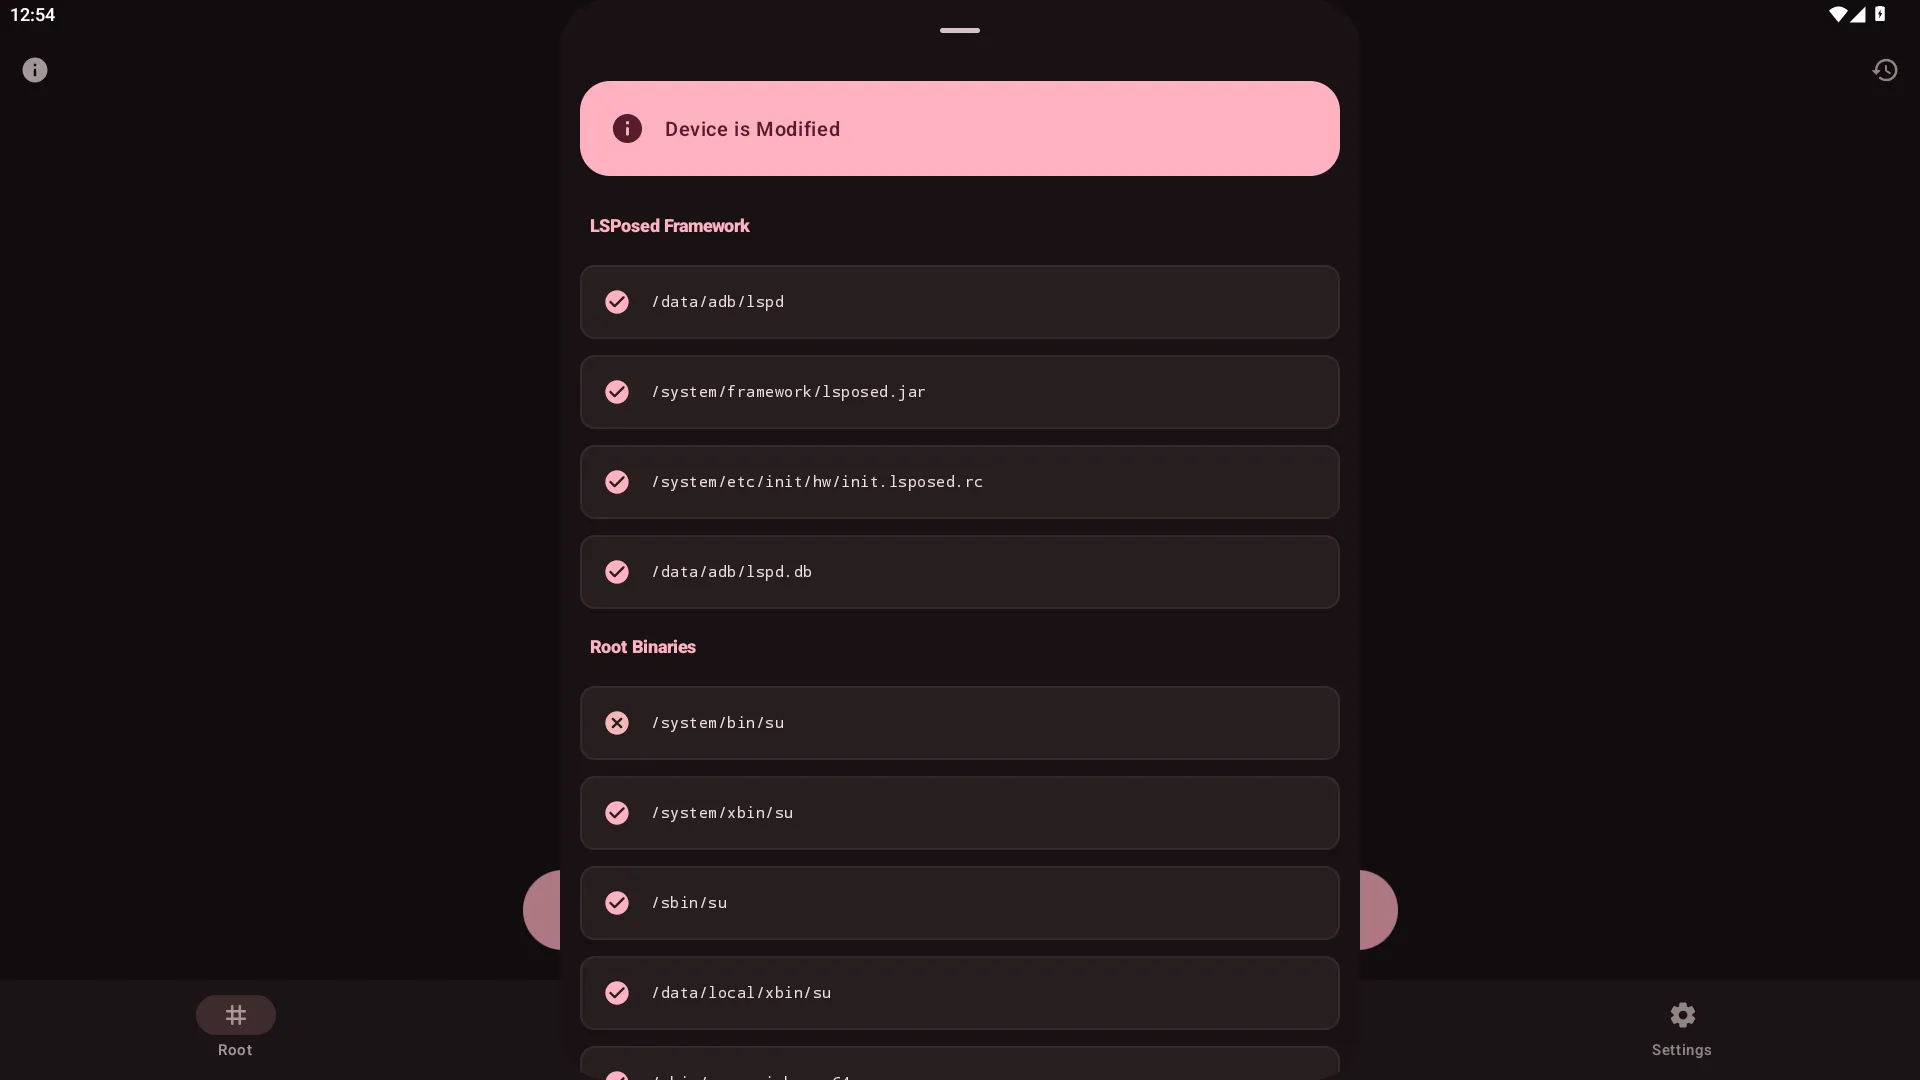
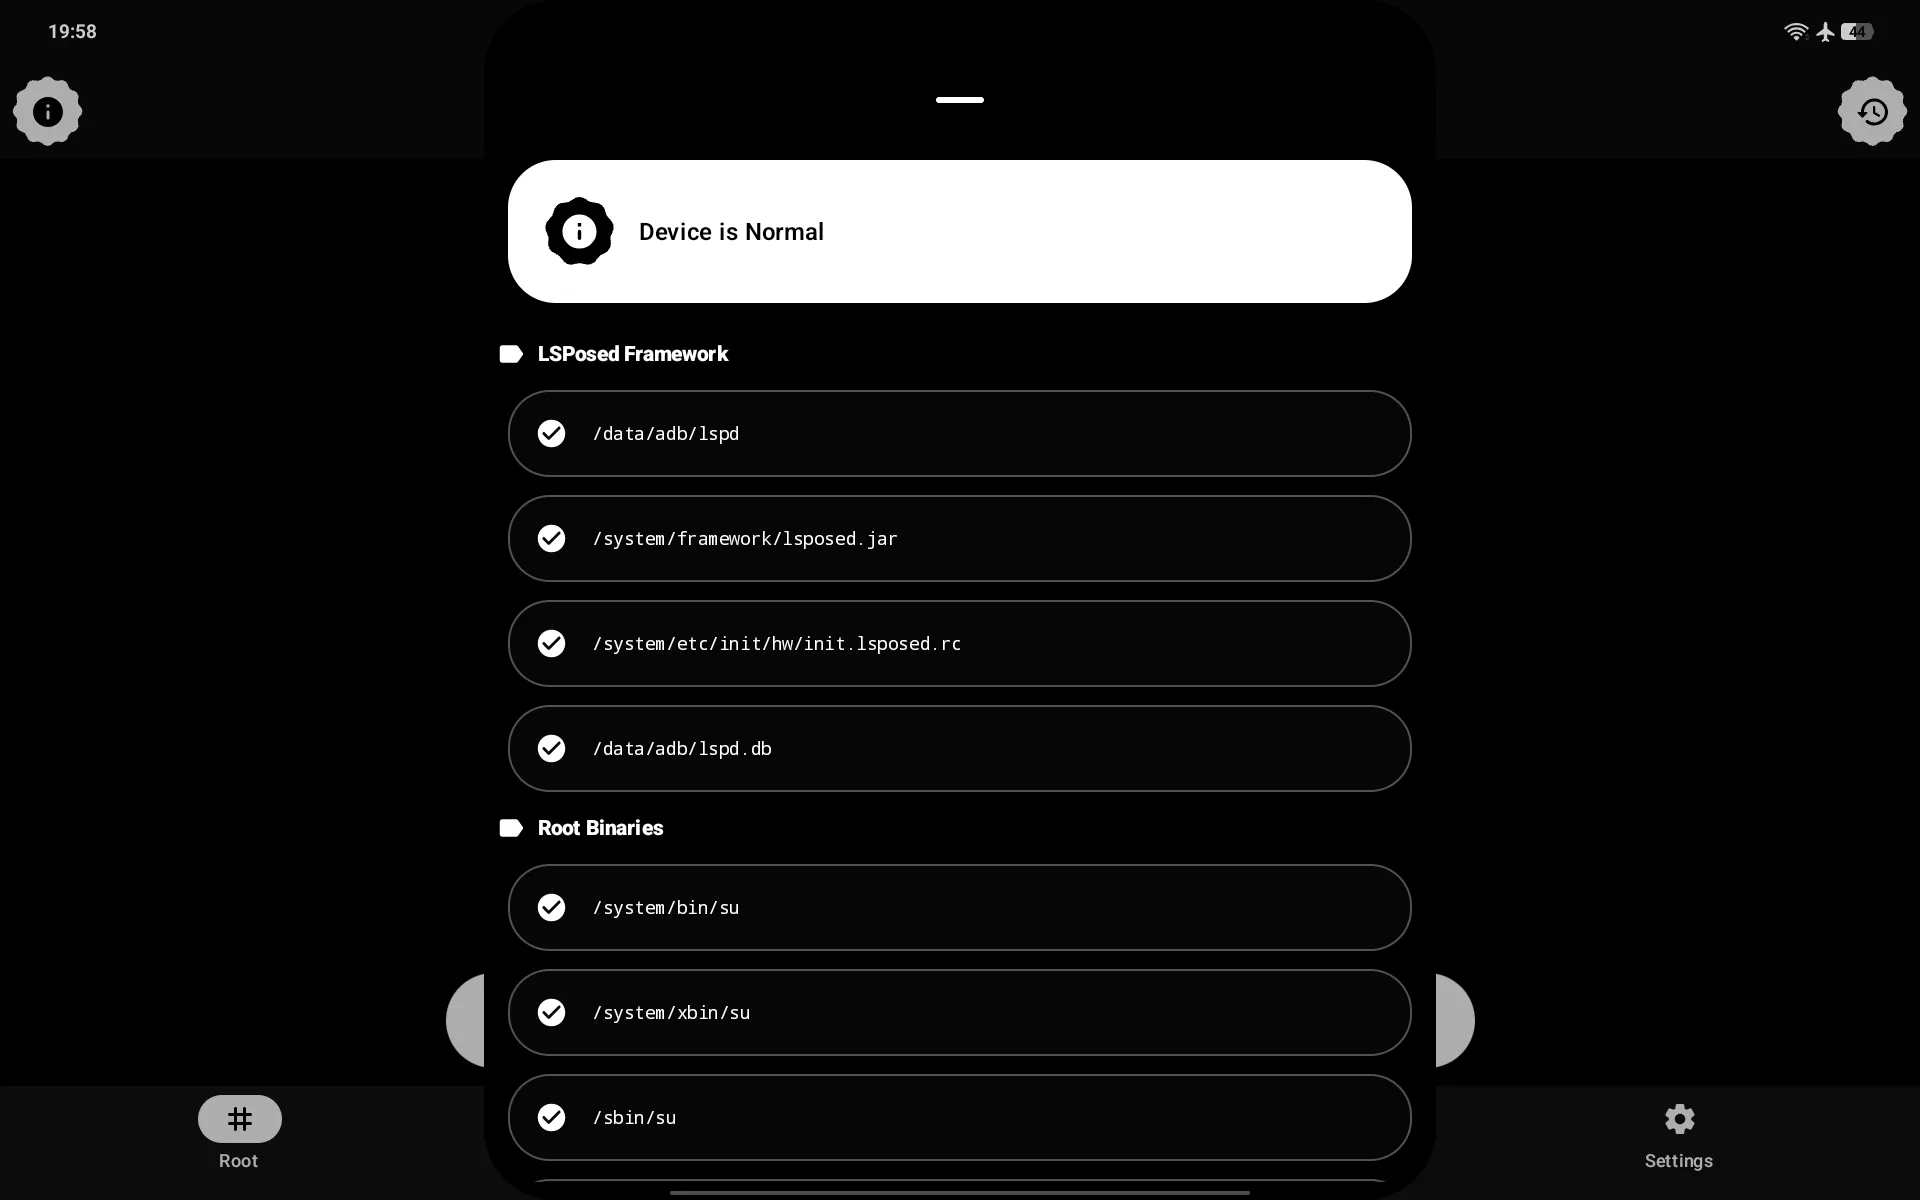
updated image class and added info menu new ui

diff --git a/css/style.css b/css/style.css
@@ -4025,6 +4025,23 @@ body{transition:background-color 420ms ease,color 280ms ease}
   *,*::before,*::after{scroll-behavior:auto!important;animation-duration:.01ms!important;animation-iteration-count:1!important;transition-duration:.01ms!important}
 }
 /* Frame banner media and product screenshots, while leaving brand marks and icons clear. */
+/* Let screenshots of any shape fit naturally without cropping or excessive height. */
+html body .hero-image,
+html body .lamina-media img,
+html body .root-checker-media img,
+html body .tmm-media img,
+html body .eeg-media img {
+    display: block;
+    width: auto;
+    height: auto;
+    max-width: 100%;
+    max-height: 80vh;
+    max-height: 80svh;
+    aspect-ratio: auto;
+    object-fit: contain;
+    margin-inline: auto;
+}
+
 :root{--banner-media-radius:12px}
 html body .hero-image,
 html body .lamina-media img,

diff --git a/404.html b/404.html
@@ -6,7 +6,7 @@
     <title>404 - Page Not Found | Chill-Astro Software</title>
     <link rel="icon" type="image/webp" href="/assets/images/tabicon.webp">
     <meta name="description" content="Page not found — Chill-Astro Software 404 error.">
-    <link rel="stylesheet" href="/css/style.css?interface=23">
+    <link rel="stylesheet" href="/css/style.css?interface=24">
 </head>
 <body class="error-404-page">
     <main class="error-shell project-card">

diff --git a/jai-hind/index.html b/jai-hind/index.html
@@ -7,7 +7,7 @@
     <meta name="robots" content="noindex,follow">
     <link rel="icon" type="image/webp" href="/assets/images/tabicon.webp">
     <meta name="description" content="Jai Hind - Indian patriotic poetry by Allama Iqbal.">
-    <link rel="stylesheet" href="/css/style.css?interface=23">
+    <link rel="stylesheet" href="/css/style.css?interface=24">
 </head>
 <body class="jai-hind-page">
     <main class="error-shell">

diff --git a/premium-dino/index.html b/premium-dino/index.html
@@ -96,7 +96,7 @@
     }
     </script>
     <link rel="icon" type="image/webp" href="../assets/images/tabicon.webp">
-    <link rel="stylesheet" href="../css/style.css?interface=23">
+    <link rel="stylesheet" href="../css/style.css?interface=24">
     <link rel="stylesheet" href="../css/premium-dino.css">
     <link rel="stylesheet" href="../css/premium-dino-theme.css">
     <title>Premium Dino | Chill-Astro Software</title>

diff --git a/tic-tac-toe/index.html b/tic-tac-toe/index.html
@@ -97,7 +97,7 @@
     }
     </script>
     <link rel="icon" type="image/webp" href="../assets/images/tabicon.webp">
-    <link rel="stylesheet" href="../css/style.css?interface=23">
+    <link rel="stylesheet" href="../css/style.css?interface=24">
     <link rel="stylesheet" href="../css/tic-tac-toe.css?v=10">
     <title>Tic Tac Toe Online | Chill-Astro Software</title>
 </head>

diff --git a/pong-reimagined/index.html b/pong-reimagined/index.html
@@ -41,7 +41,7 @@
     }
     </script>
     <link rel="icon" type="image/webp" href="../assets/images/tabicon.webp">
-    <link rel="stylesheet" href="../css/style.css?interface=23">
+    <link rel="stylesheet" href="../css/style.css?interface=24">
     <link rel="stylesheet" href="../css/pong.css?v=14">
     <title>Pong Reimagined | Chill-Astro Software</title>
 </head>

diff --git a/lamina-calculator/index.html b/lamina-calculator/index.html
@@ -36,7 +36,7 @@
 
     <link rel="icon" type="image/webp" href="../assets/images/tabicon.webp">
     <link rel="stylesheet" href="../css/video-player.css?player=10">
-    <link rel="stylesheet" href="../css/style.css?interface=23">
+    <link rel="stylesheet" href="../css/style.css?interface=24">
 
     <title>Lamina ✦ | Chill-Astro Software</title>
 </head>

diff --git a/oh-my-posh-themes/index.html b/oh-my-posh-themes/index.html
@@ -25,7 +25,7 @@
 
     <link rel="icon" type="image/webp" href="../assets/images/tabicon.webp">
     <link rel="stylesheet" href="../css/terminal-preview.css?v=5">
-    <link rel="stylesheet" href="../css/style.css?interface=23">
+    <link rel="stylesheet" href="../css/style.css?interface=24">
 </head>
 
 <script type="application/ld+json">

diff --git a/nostalgic-games-centre/index.html b/nostalgic-games-centre/index.html
@@ -41,7 +41,7 @@
     }
     </script>
     <link rel="icon" type="image/webp" href="../assets/images/tabicon.webp">
-    <link rel="stylesheet" href="../css/style.css?interface=23">
+    <link rel="stylesheet" href="../css/style.css?interface=24">
     <title>Nostalgic Games Centre | Chill-Astro Software</title>
 </head>
 <body>

diff --git a/foss-app-centre/index.html b/foss-app-centre/index.html
@@ -41,7 +41,7 @@
     }
     </script>
     <link rel="icon" type="image/webp" href="../assets/images/tabicon.webp">
-    <link rel="stylesheet" href="../css/style.css?interface=23">
+    <link rel="stylesheet" href="../css/style.css?interface=24">
     <title>FOSS App Centre | Chill-Astro Software</title>
 </head>
 <body>

diff --git a/foss-root-checker/index.html b/foss-root-checker/index.html
@@ -77,7 +77,7 @@
         rel="stylesheet"
         href="../css/video-player.css?player=10"
     >
-    <link rel="stylesheet" href="../css/style.css?interface=23">
+    <link rel="stylesheet" href="../css/style.css?interface=24">
 
     <title>FOSS Root Checker | Chill-Astro Software</title>
 </head>

diff --git a/trust-my-msix/index.html b/trust-my-msix/index.html
@@ -61,7 +61,7 @@
         rel="stylesheet"
         href="../css/video-player.css?player=10"
     >
-    <link rel="stylesheet" href="../css/style.css?interface=23">
+    <link rel="stylesheet" href="../css/style.css?interface=24">
 
     <title>Trust My Msix! | Chill-Astro Software</title>
 </head>
